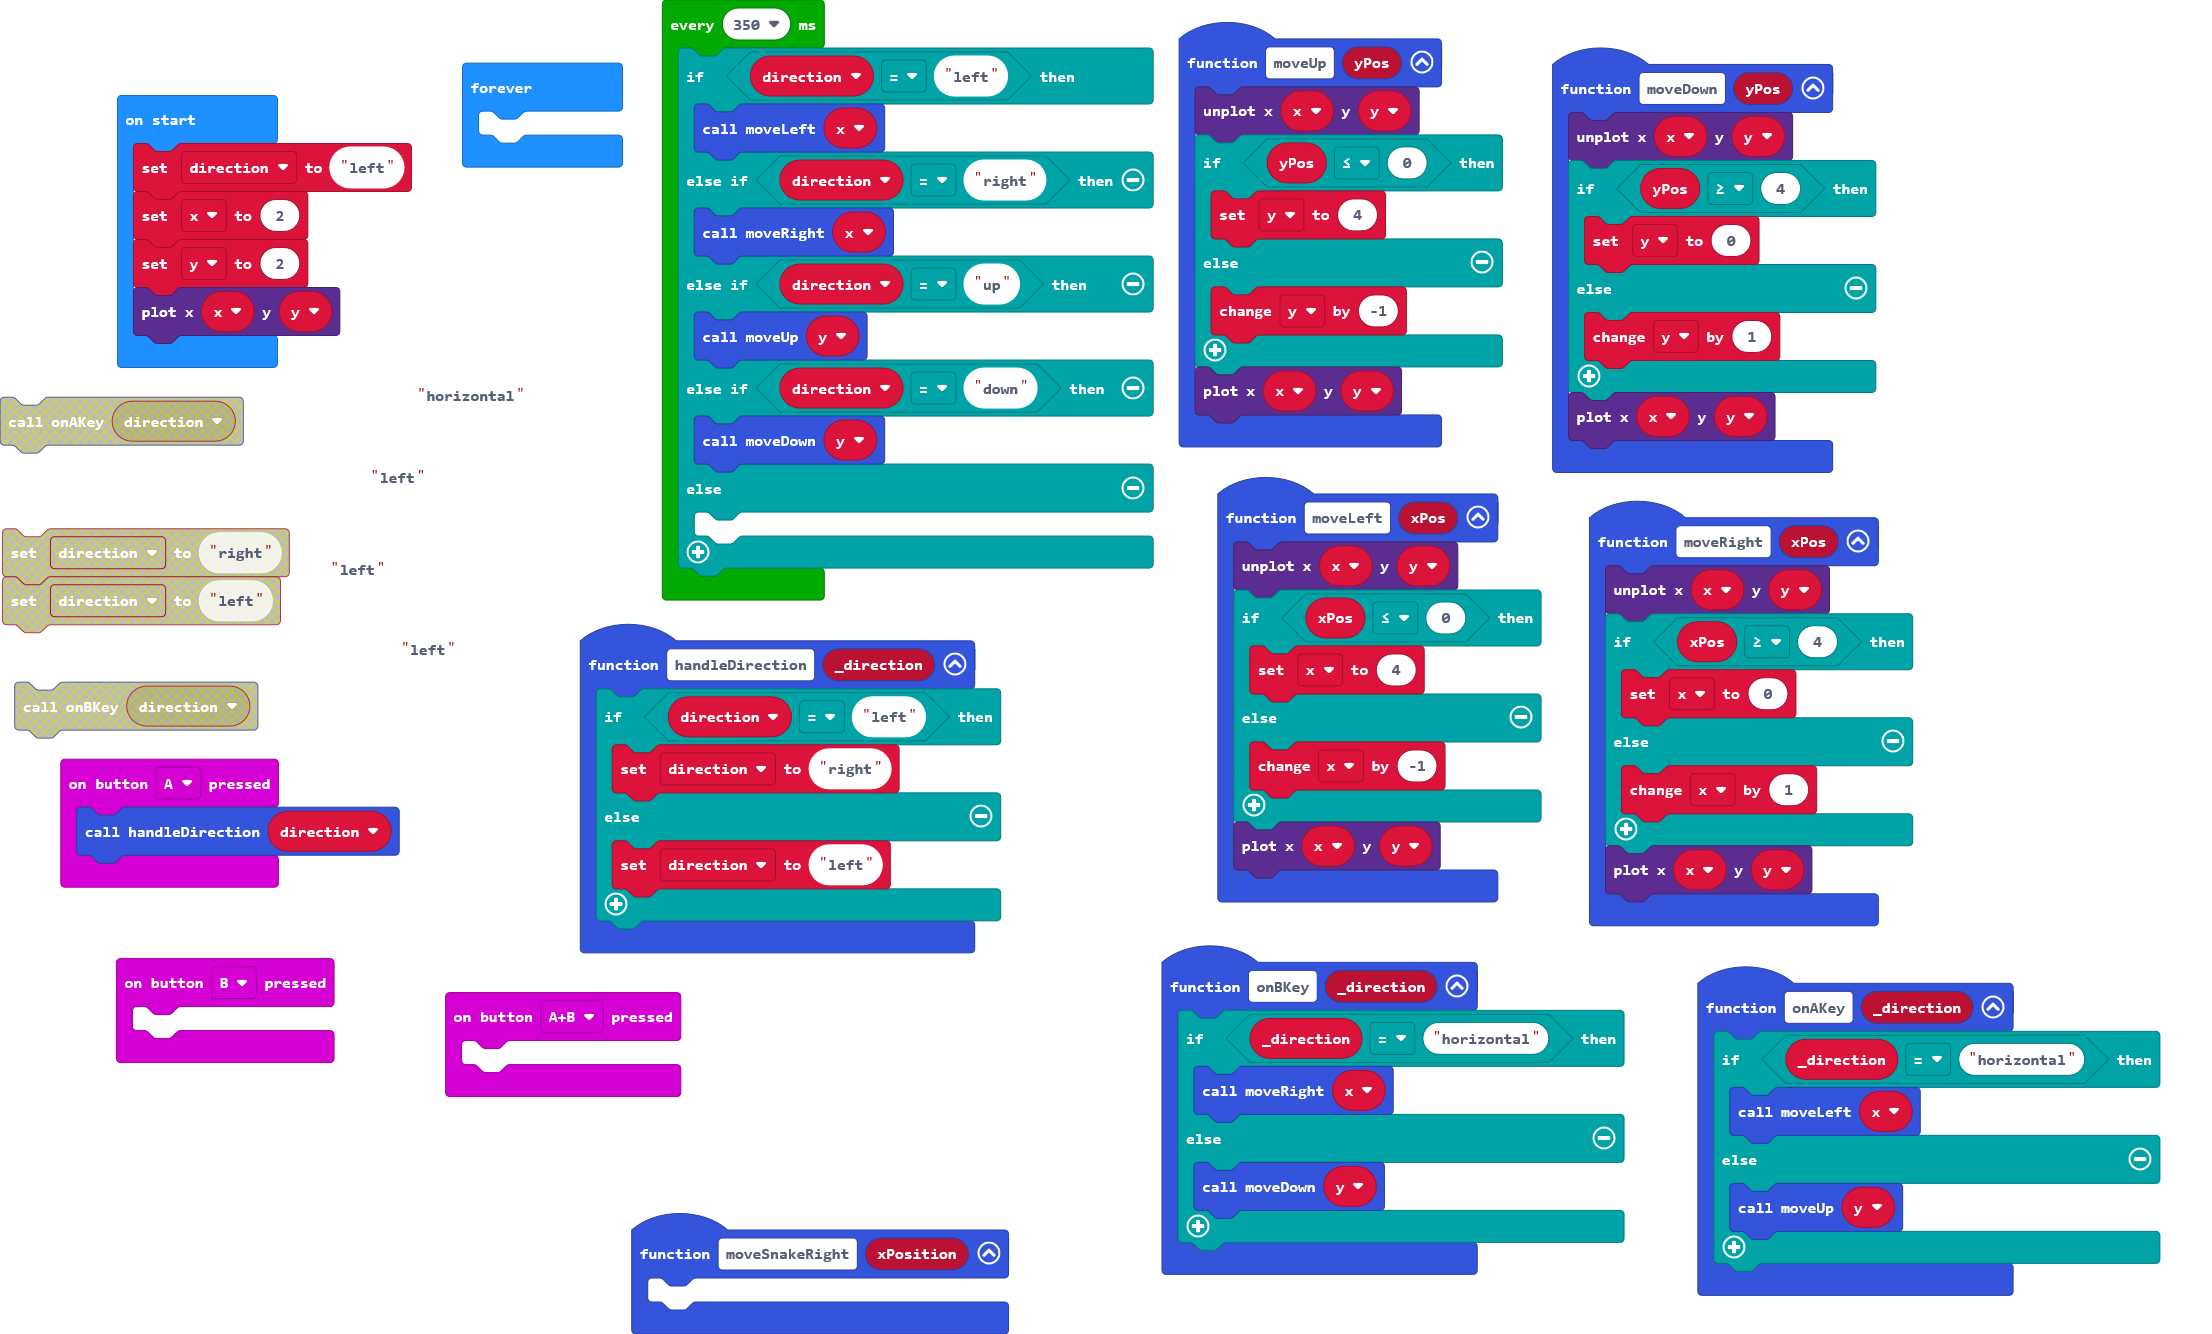
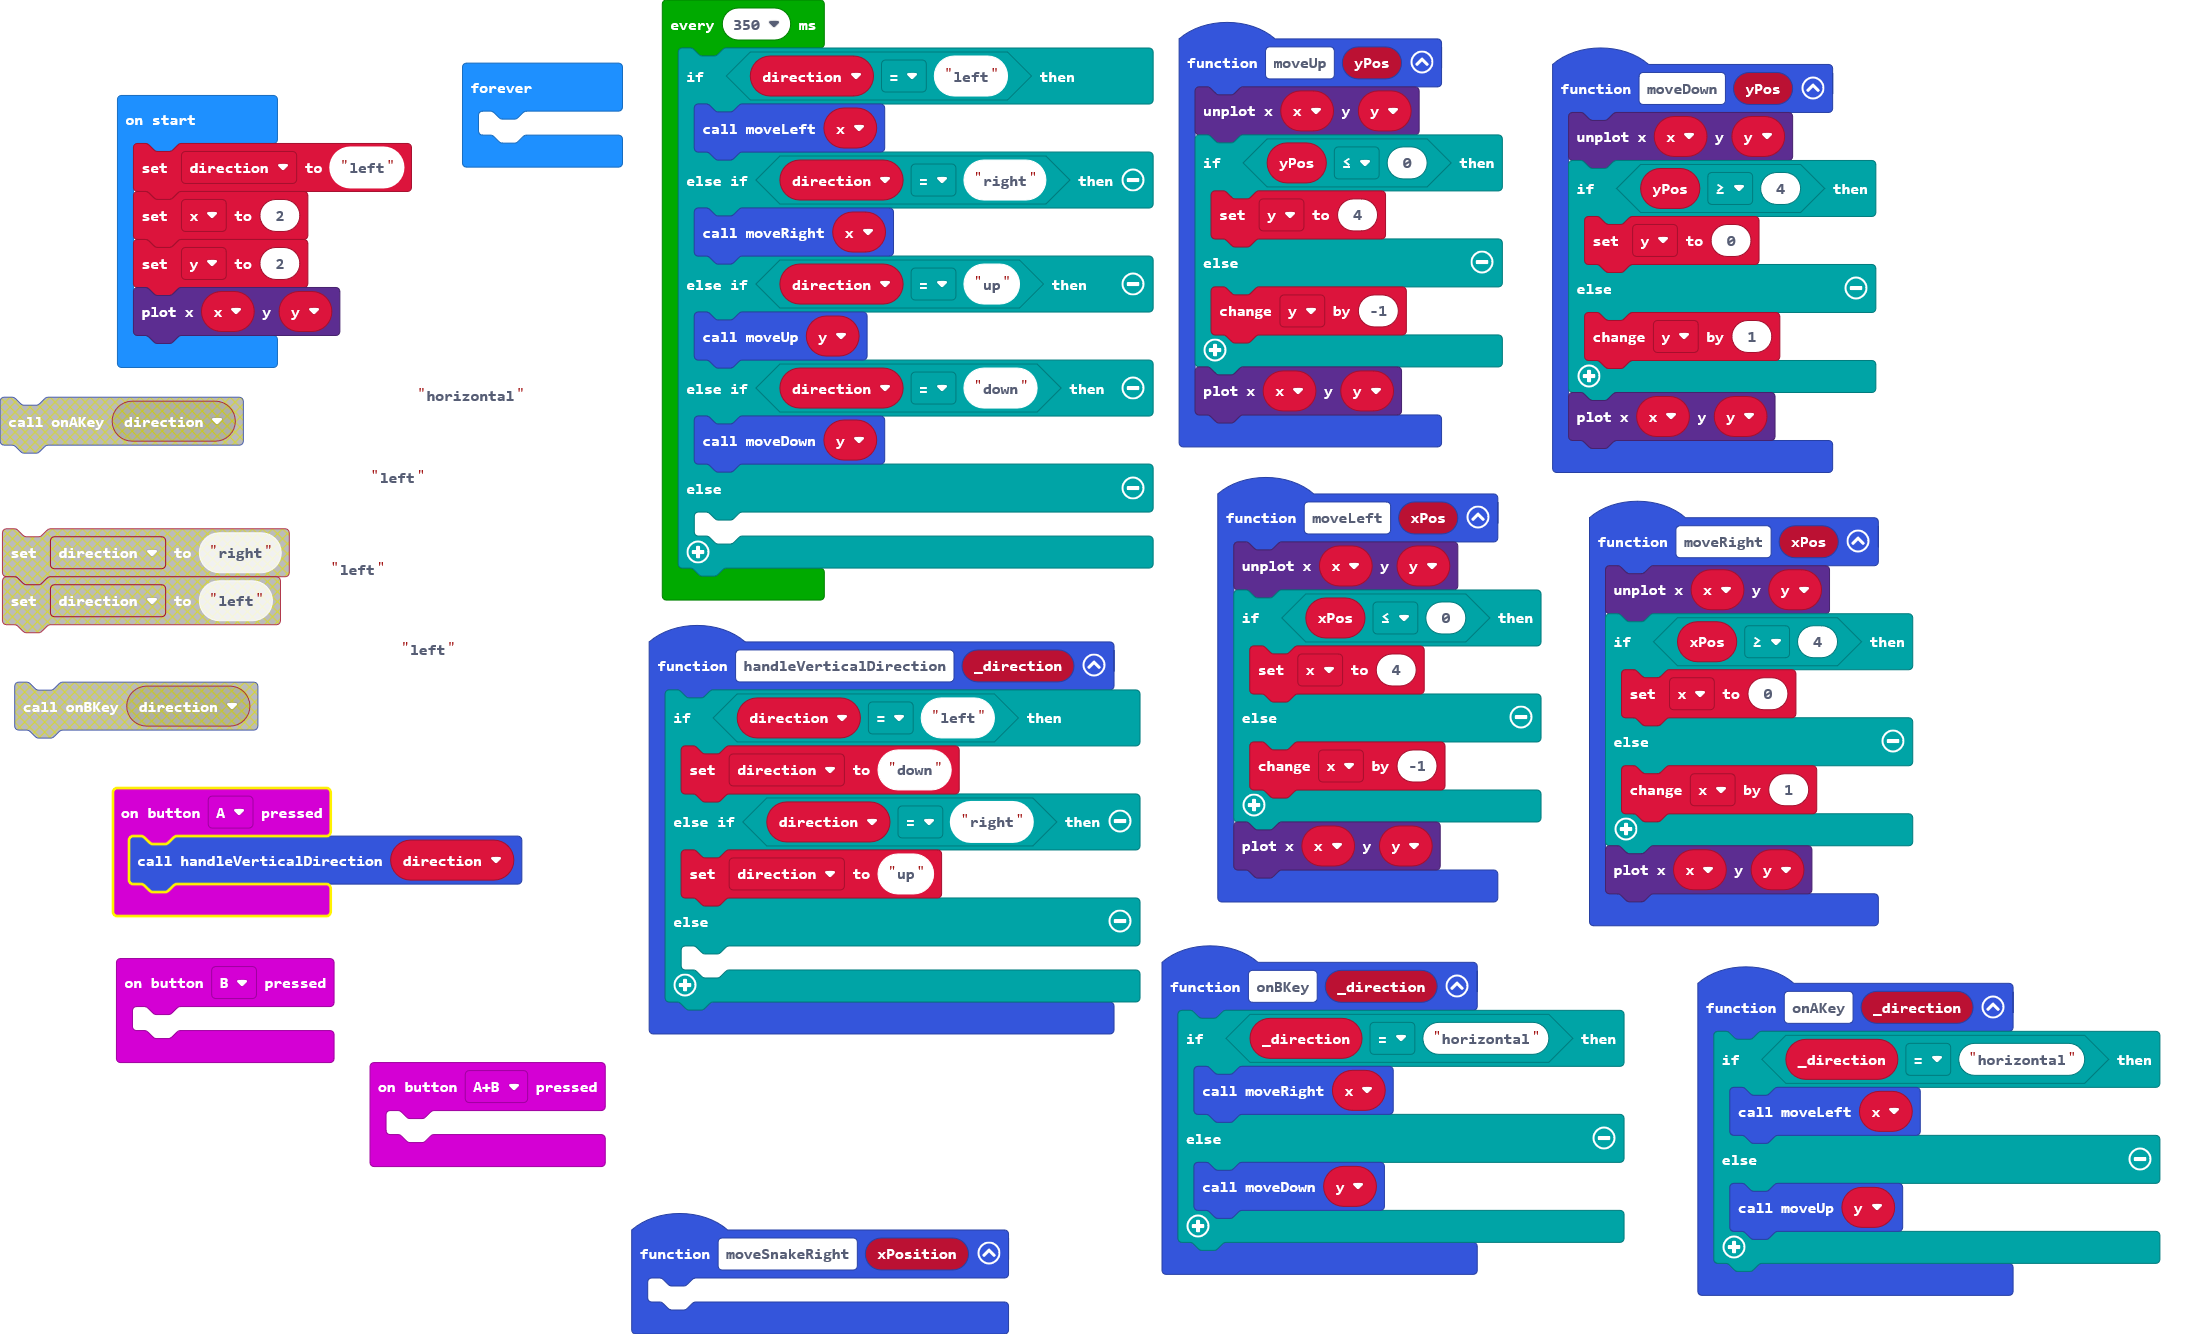
Update main.blocks, main.ts

Changed region(s): [[0.0, 0.461, 0.5303, 0.8913]]

diff --git a/main.ts b/main.ts
@@ -24,15 +24,8 @@ function moveUp (yPos: number) {
     led.plot(x, y)
 }
 input.onButtonPressed(Button.A, function () {
-    handleDirection(direction)
+    handleVerticalDirection(direction)
 })
-function handleDirection (_direction: string) {
-    if (direction == "left") {
-        direction = "right"
-    } else {
-        direction = "left"
-    }
-}
 function moveDown (yPos: number) {
     led.unplot(x, y)
     if (yPos >= 4) {
@@ -41,6 +34,15 @@ function moveDown (yPos: number) {
         y += 1
     }
     led.plot(x, y)
+}
+function handleVerticalDirection (_direction: string) {
+    if (direction == "left") {
+        direction = "down"
+    } else if (direction == "right") {
+        direction = "up"
+    } else {
+    	
+    }
 }
 function moveSnakeRight (xPosition: number) {
 	
